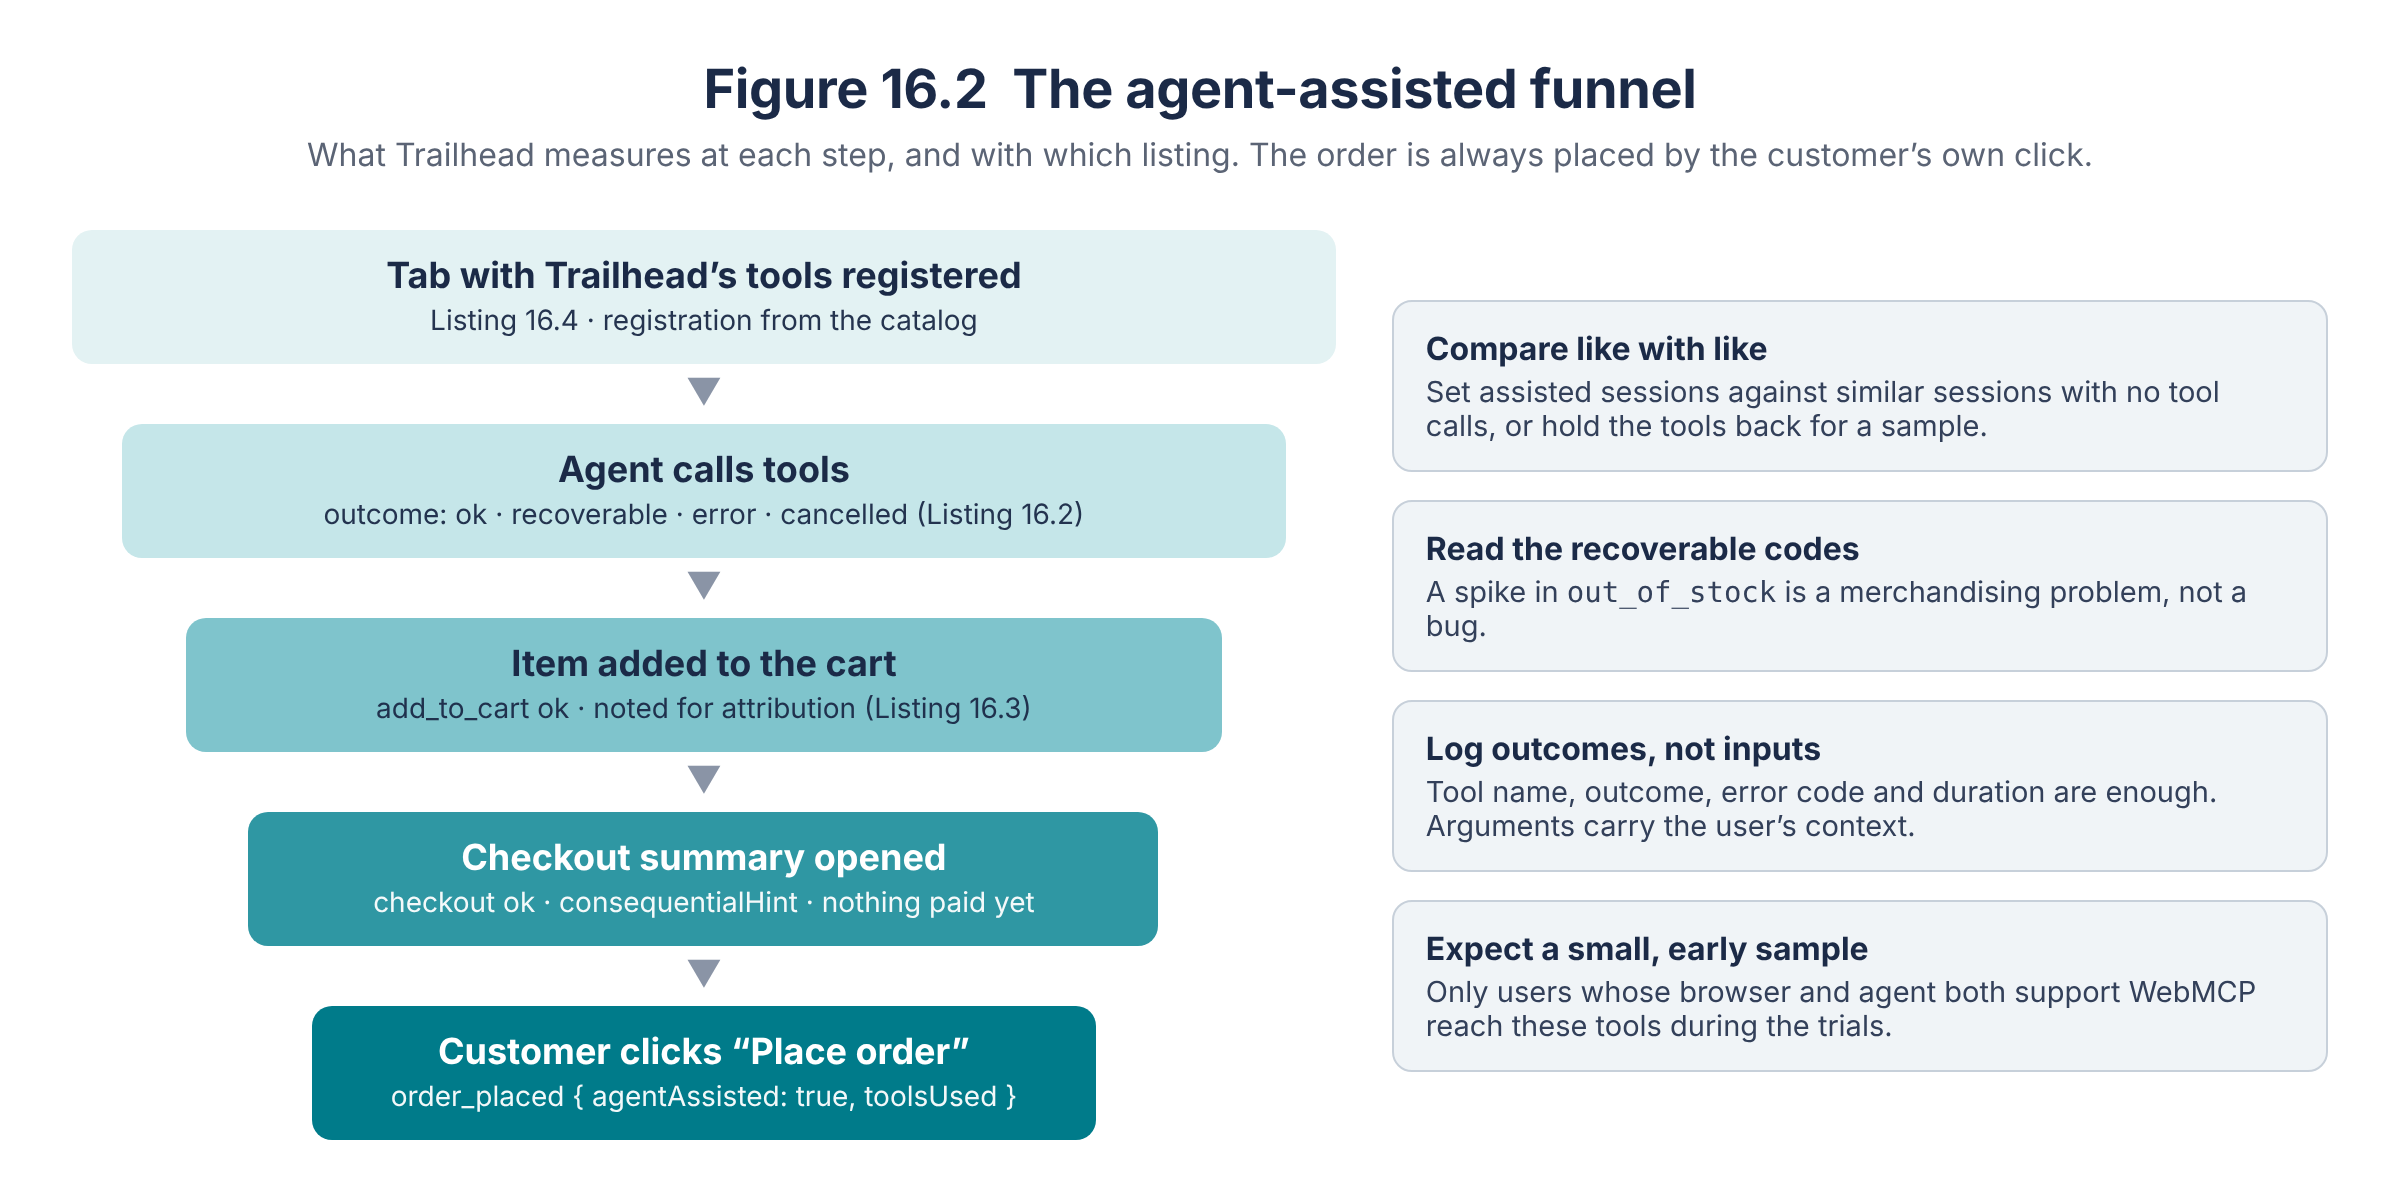
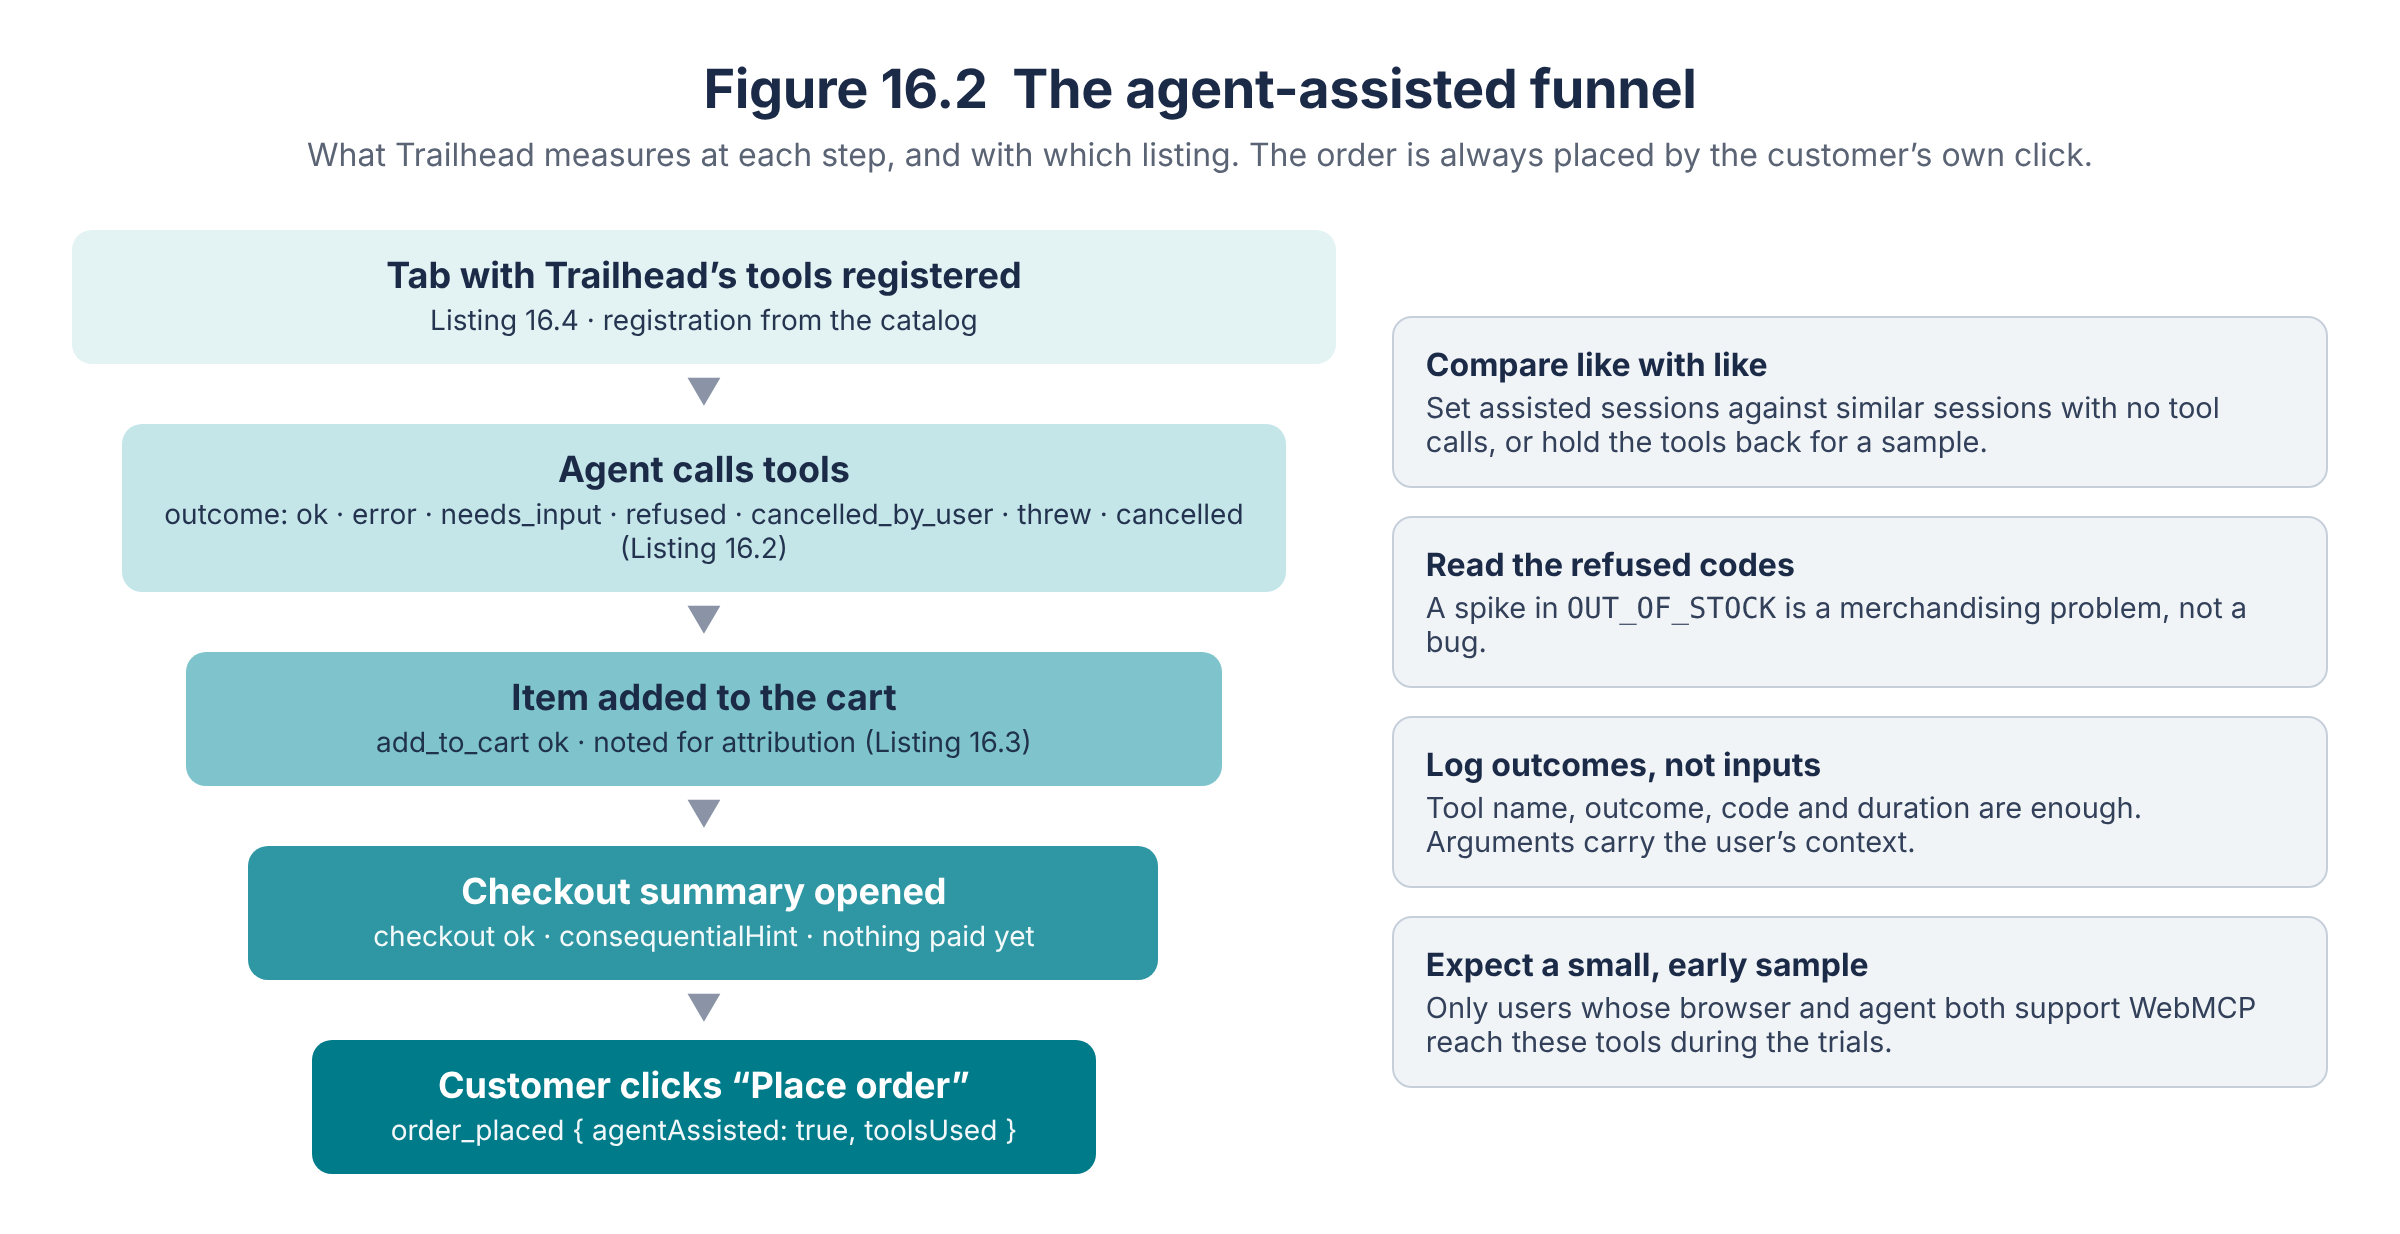
Tech review: chapter 16

diff --git a/chapters/16-product-and-business-implications/WebMCP_Ch16_Product_and_Business_Implications.md b/chapters/16-product-and-business-implications/WebMCP_Ch16_Product_and_Business_Implications.md
@@ -182,18 +182,23 @@ The declarative API, which Chapter 8 covers and which was removed from the speci
 
 ### Recording outcomes
 
-The most useful single metric is the outcome of each call. Chapter 5 established the rule of returning recoverable failures as values. At Trailhead that means `{ error: { code, message } }` for things the agent can fix, like an unknown SKU or an out-of-stock item, and exceptions only for real faults. That convention makes outcomes easy to classify. Listing 16.2 wraps any tool and reports one record per call, without changing what the agent receives.
+The most useful single metric is the outcome of each call. Chapter 5 established the rule of returning recoverable failures as values, and Chapter 11 settled their shape for the whole book: `{ status, code, message }`. The `status` says who acts next: `'error'` for something the agent can fix, like an unknown SKU; `'needs_input'` when only the user knows the answer; `'refused'` when a rule says no, as with an out-of-stock item (code `OUT_OF_STOCK`); and `'cancelled_by_user'` when the person declined in the page’s own UI. Exceptions are only for real faults. That convention makes outcomes easy to classify. Listing 16.2 wraps any tool and reports one record per call, without changing what the agent receives.
 
 **Listing 16.2 — Measuring every call without touching the tool (measure.ts)**
 
 ```ts
-// measure.ts: one wrapper, four outcomes, no change to the tool itself.
-export type Outcome = 'ok' | 'recoverable' | 'error' | 'cancelled';
+// measure.ts: one wrapper, every outcome, no change to the tool itself.
+// Chapter 11's four statuses for a call that fell short, plus two for a call that never returned.
+export type Outcome =
+  | 'ok' | 'error' | 'needs_input' | 'refused' | 'cancelled_by_user'
+  | 'threw' | 'cancelled';
+
+const FELL_SHORT = new Set(['error', 'needs_input', 'refused', 'cancelled_by_user']);
 
 export interface ToolCallRecord {
   tool: string;
   outcome: Outcome;
-  code?: string;   // the recoverable error's code, e.g. 'out_of_stock'
+  code?: string;   // the result's stable code, e.g. 'OUT_OF_STOCK'
   ms: number;
 }
 
@@ -209,14 +214,14 @@ export function withMeasurement(
         report({ tool: tool.name, outcome, code, ms: Math.round(performance.now() - started) });
       try {
         const result = await tool.execute(input, options);
-        // Trailhead's convention: recoverable failures come back as { error: { code } }.
-        const error = (result as { error?: { code?: string } } | null)?.error;
+        // Chapter 11's convention: a call that falls short says so in `status`, with a `code`.
+        const { status, code } = (result ?? {}) as { status?: string; code?: string };
         if (options.signal.aborted) done('cancelled');
-        else if (error) done('recoverable', error.code);
+        else if (status && FELL_SHORT.has(status)) done(status as Outcome, code);
         else done('ok');
         return result;
       } catch (err) {
-        done(options.signal.aborted ? 'cancelled' : 'error');
+        done(options.signal.aborted ? 'cancelled' : 'threw');
         throw err;
       }
     },
@@ -224,9 +229,9 @@ export function withMeasurement(
 }
 ```
 
-The four outcomes map to four different conversations. A falling *ok* rate after a release means a description or schema regressed, and your eval suite should have caught it. A rising *recoverable* rate with one dominant code (`out_of_stock`, say) is a merchandising problem, not an engineering one. *Error* is a bug. *Cancelled* means the user or the agent stopped the call, and Chapter 6 covers what that does to your code. Durations tell you where agents wait, and Chrome’s best practices remind you that the interface should be updated once the function completes, because “agents may rely on the interface to plan next steps”.[^3]
+Each outcome starts a different conversation. A falling *ok* rate after a release means a description or schema regressed, and your eval suite should have caught it. A rising *error* rate points the same way: agents are calling the tool with arguments it can’t use. A rising *refused* rate with one dominant code (`OUT_OF_STOCK`, say) is a merchandising problem, not an engineering one. *needs_input* and *cancelled_by_user* show how often the person had to step in. *Threw* is a bug. *Cancelled* means the user or the agent stopped the call, and Chapter 6 covers what that does to your code. Durations tell you where agents wait, and Chrome’s best practices remind you that the interface should be updated once the function completes, because “agents may rely on the interface to plan next steps”.[^3]
 
-Note what the record leaves out: the input. The tool name, outcome, error code and duration are enough for every metric in this chapter. Logging arguments means logging whatever the agent drew from the user’s context, and that is exactly the data the over-parameterization warning is about.[^13] If you need inputs for debugging, sample them, strip them of personal data and keep them out of your marketing warehouse.
+Note what the record leaves out: the input. The tool name, outcome, code and duration are enough for every metric in this chapter. Logging arguments means logging whatever the agent drew from the user’s context, and that is exactly the data the over-parameterization warning is about.[^13] If you need inputs for debugging, sample them, strip them of personal data and keep them out of your marketing warehouse.
 
 ### From calls to conversions
 
@@ -300,8 +305,8 @@ Figure 16.2 shows the resulting funnel, and Table 16.3 lists the metrics Trailhe
 | Metric | From | Question it answers |
 |---|---|---|
 | Calls per tool, per day | Listing 16.2 | Is anyone using it? Which tools do agents reach for? |
-| Outcome mix (ok / recoverable / error / cancelled) | Listing 16.2 | Does the tool work? Did a release regress it? |
-| Top recoverable codes | Listing 16.2 | What blocks agents: stock, input, policy? |
+| Outcome mix (ok, Chapter 11’s four statuses, threw, cancelled) | Listing 16.2 | Does the tool work? Did a release regress it? |
+| Top `refused`, `error` and `needs_input` codes | Listing 16.2 | What blocks agents: stock, input, policy? |
 | Median and slow-tail duration | Listing 16.2 | Where do agents and customers wait? |
 | Assisted order rate and value | Listing 16.3 | Do sessions with agent help end in orders? |
 | Checkout opened → order placed | Listings 16.2–16.3 | Do customers confirm what agents prepare? |
@@ -416,7 +421,7 @@ None of this needs WebMCP to win the standards debate. The tools wrap code Trail
 - WebMCP converts visits you already have. Tools are discovered only during the user’s visit, and there is no central registry. Static manifests were set aside as the primary mechanism, and discovery for sites that aren’t open is an open proposal. Agent-readiness resembles SEO in its need for good machine-facing copy, not in its acquisition power.
 - Choose first journeys by actuation pain, value per completion, code reuse, the cost of a wrong action and the number of tools needed. Search and comparison come first, then reversible cart steps, then a checkout that stops at your confirmation screen. Keep the tool count small.
 - WebMCP keeps the agent a guest on your site: tools run in your tab, update your UI and disappear when the tab closes. It doesn’t stop agents comparing your structured results with competitors’. Show results on the page, return the facts that make you the right choice, keep consequential steps on your page and never over-ask.
-- Every call runs your code, so tools are easy to measure. The page can’t tell which agent is calling: `execute` receives only the input and a signal, and `toolactivated` and `toolcancel` carry only a tool name. Record outcomes (ok, recoverable, error, cancelled), codes and durations, not inputs. Attribute orders to agent help by tab session, and treat assisted as different from caused.
+- Every call runs your code, so tools are easy to measure. The page can’t tell which agent is calling: `execute` receives only the input and a signal, and `toolactivated` and `toolcancel` carry only a tool name. Record outcomes (ok, Chapter 11’s four statuses, threw, cancelled), codes and durations, not inputs. Attribute orders to agent help by tab session, and treat assisted as different from caused.
 - Pricing and policy decisions surface early: same prices for agents and people, rate limits that allow comparison, terms of service that match the tools you register, human-in-the-loop as policy, evidence for disputes, and `untrustedContentHint` for user-generated content.
 - Use WebMCP and backend MCP together: one implementation behind two adapters, the same names and schemas where they overlap, and different boundaries where the context differs.
 - Tools are product surface. Copy, schema, evals and security annotations have different owners. Description changes need re-registration and an eval run. Enforce Chrome’s provisional budgets in CI, and give one person the job of tracking the spec and reporting back.
@@ -436,7 +441,7 @@ Chapter 17 turns from today’s plan to the open questions (output schemas, stre
 [^9]: Chrome for Developers, “WebMCP use cases” (published 18 May 2026): critical user journeys, “Help users make purchases”, “Support repeat purchases” and the warranty-claim example. <https://developer.chrome.com/docs/ai/webmcp/use-cases>
 [^10]: WebMCP explainer, “Use Cases”, “E-Commerce & Tailored Shopping”. <https://github.com/webmachinelearning/webmcp#use-cases>
 [^11]: WebMCP explainer, “Goals & Non-Goals”. <https://github.com/webmachinelearning/webmcp#goals--non-goals>
-[^12]: WebMCP specification, Draft Community Group Report, 13 October 2026, §6.4.5 Consequential Annotation for Tool Executions. <https://webmachinelearning.github.io/webmcp/#security-privacy>
+[^12]: WebMCP specification, Draft Community Group Report, 15 October 2026, §6.4.5 Consequential Annotation for Tool Executions. <https://webmachinelearning.github.io/webmcp/#security-privacy>
 [^13]: WebMCP specification, §6.3.3 Privacy Leakage Through Over-Parameterization. <https://webmachinelearning.github.io/webmcp/#security-privacy>
 [^14]: WebMCP specification, §6.3.2 Misrepresentation of Intent (including §6.3.2.2 Misalignment Types). <https://webmachinelearning.github.io/webmcp/#security-privacy>
 [^15]: WebMCP specification, §4.2 ModelContext interface, §4.2.2 ToolExecuteCallbackOptions dictionary and the IDL index. <https://webmachinelearning.github.io/webmcp/#api>
